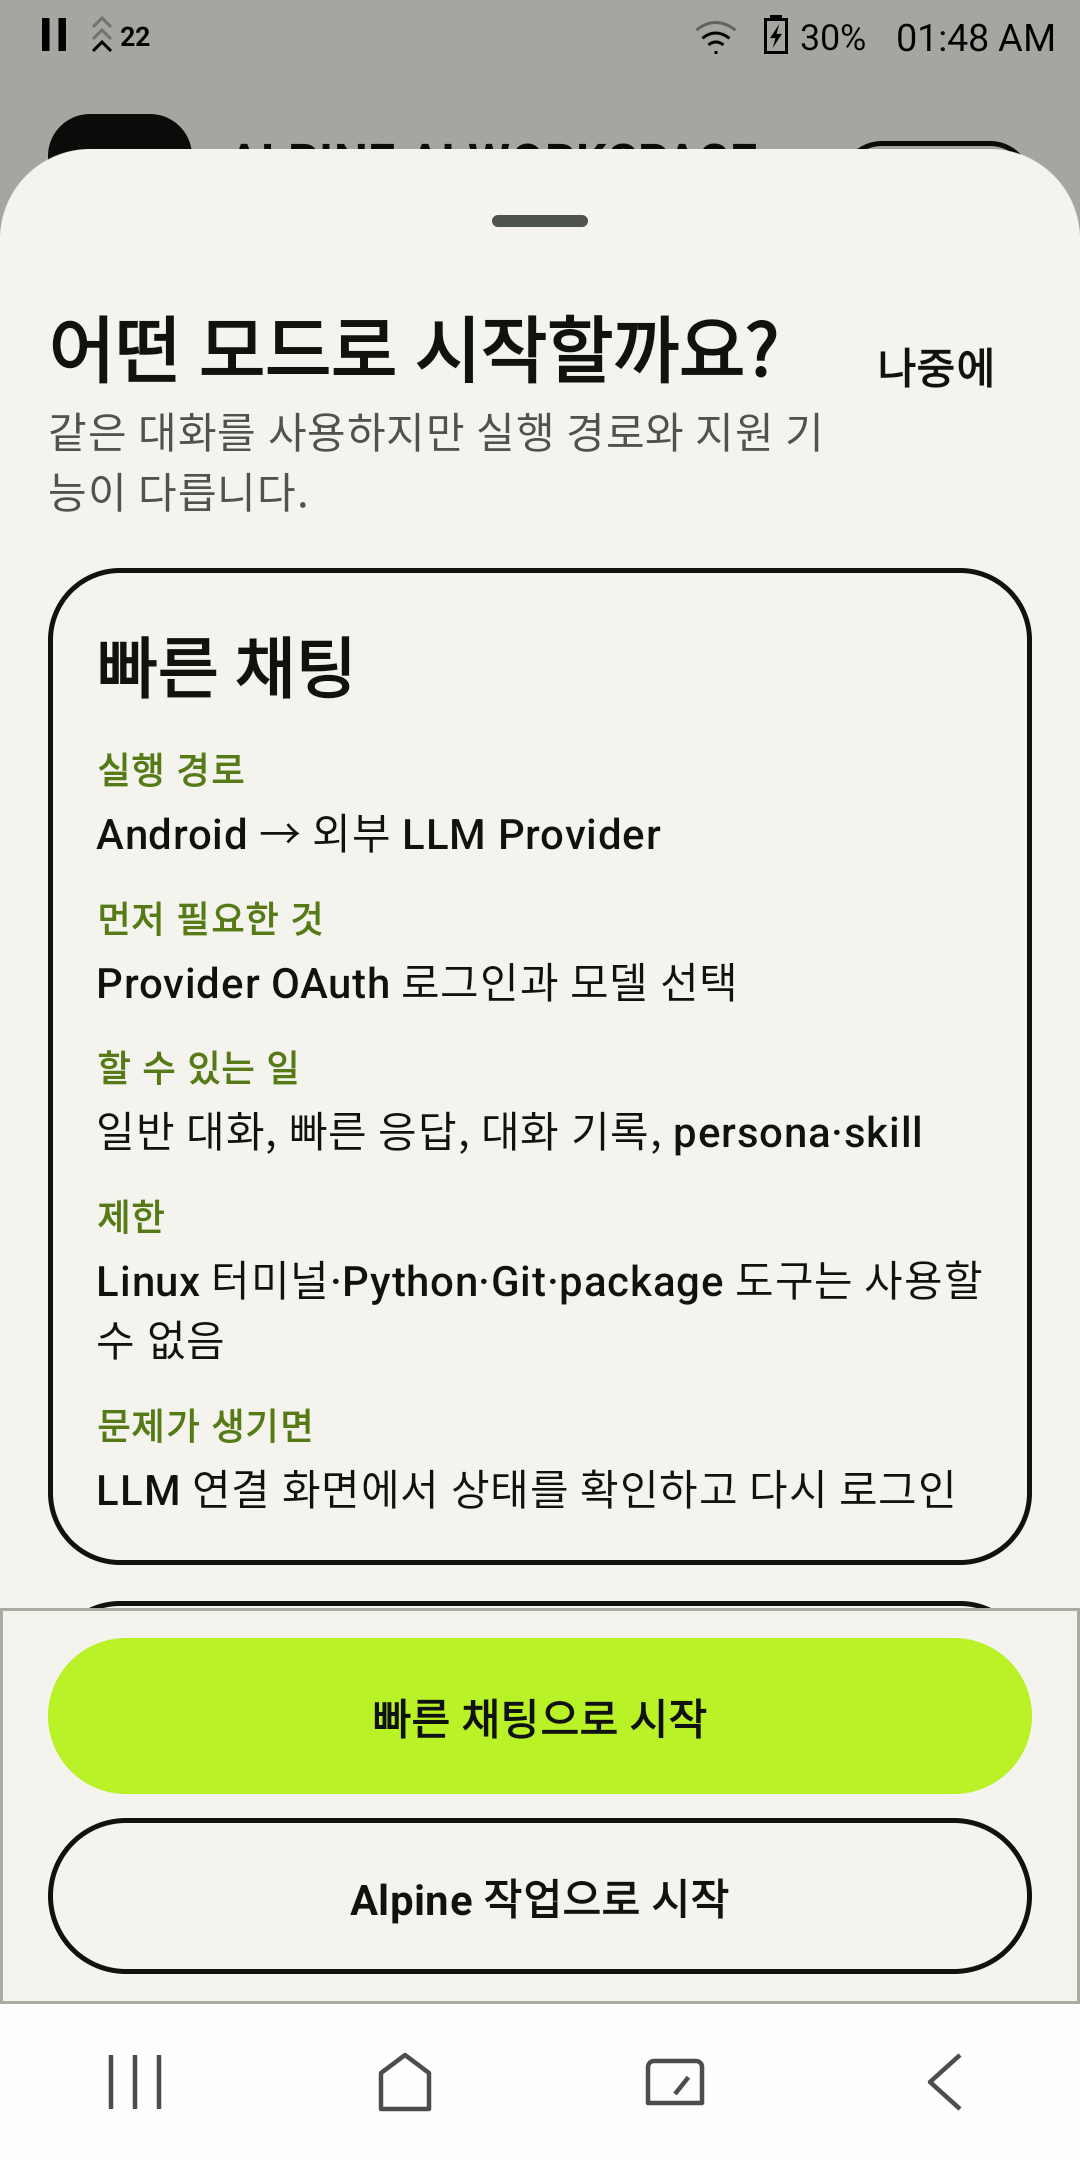
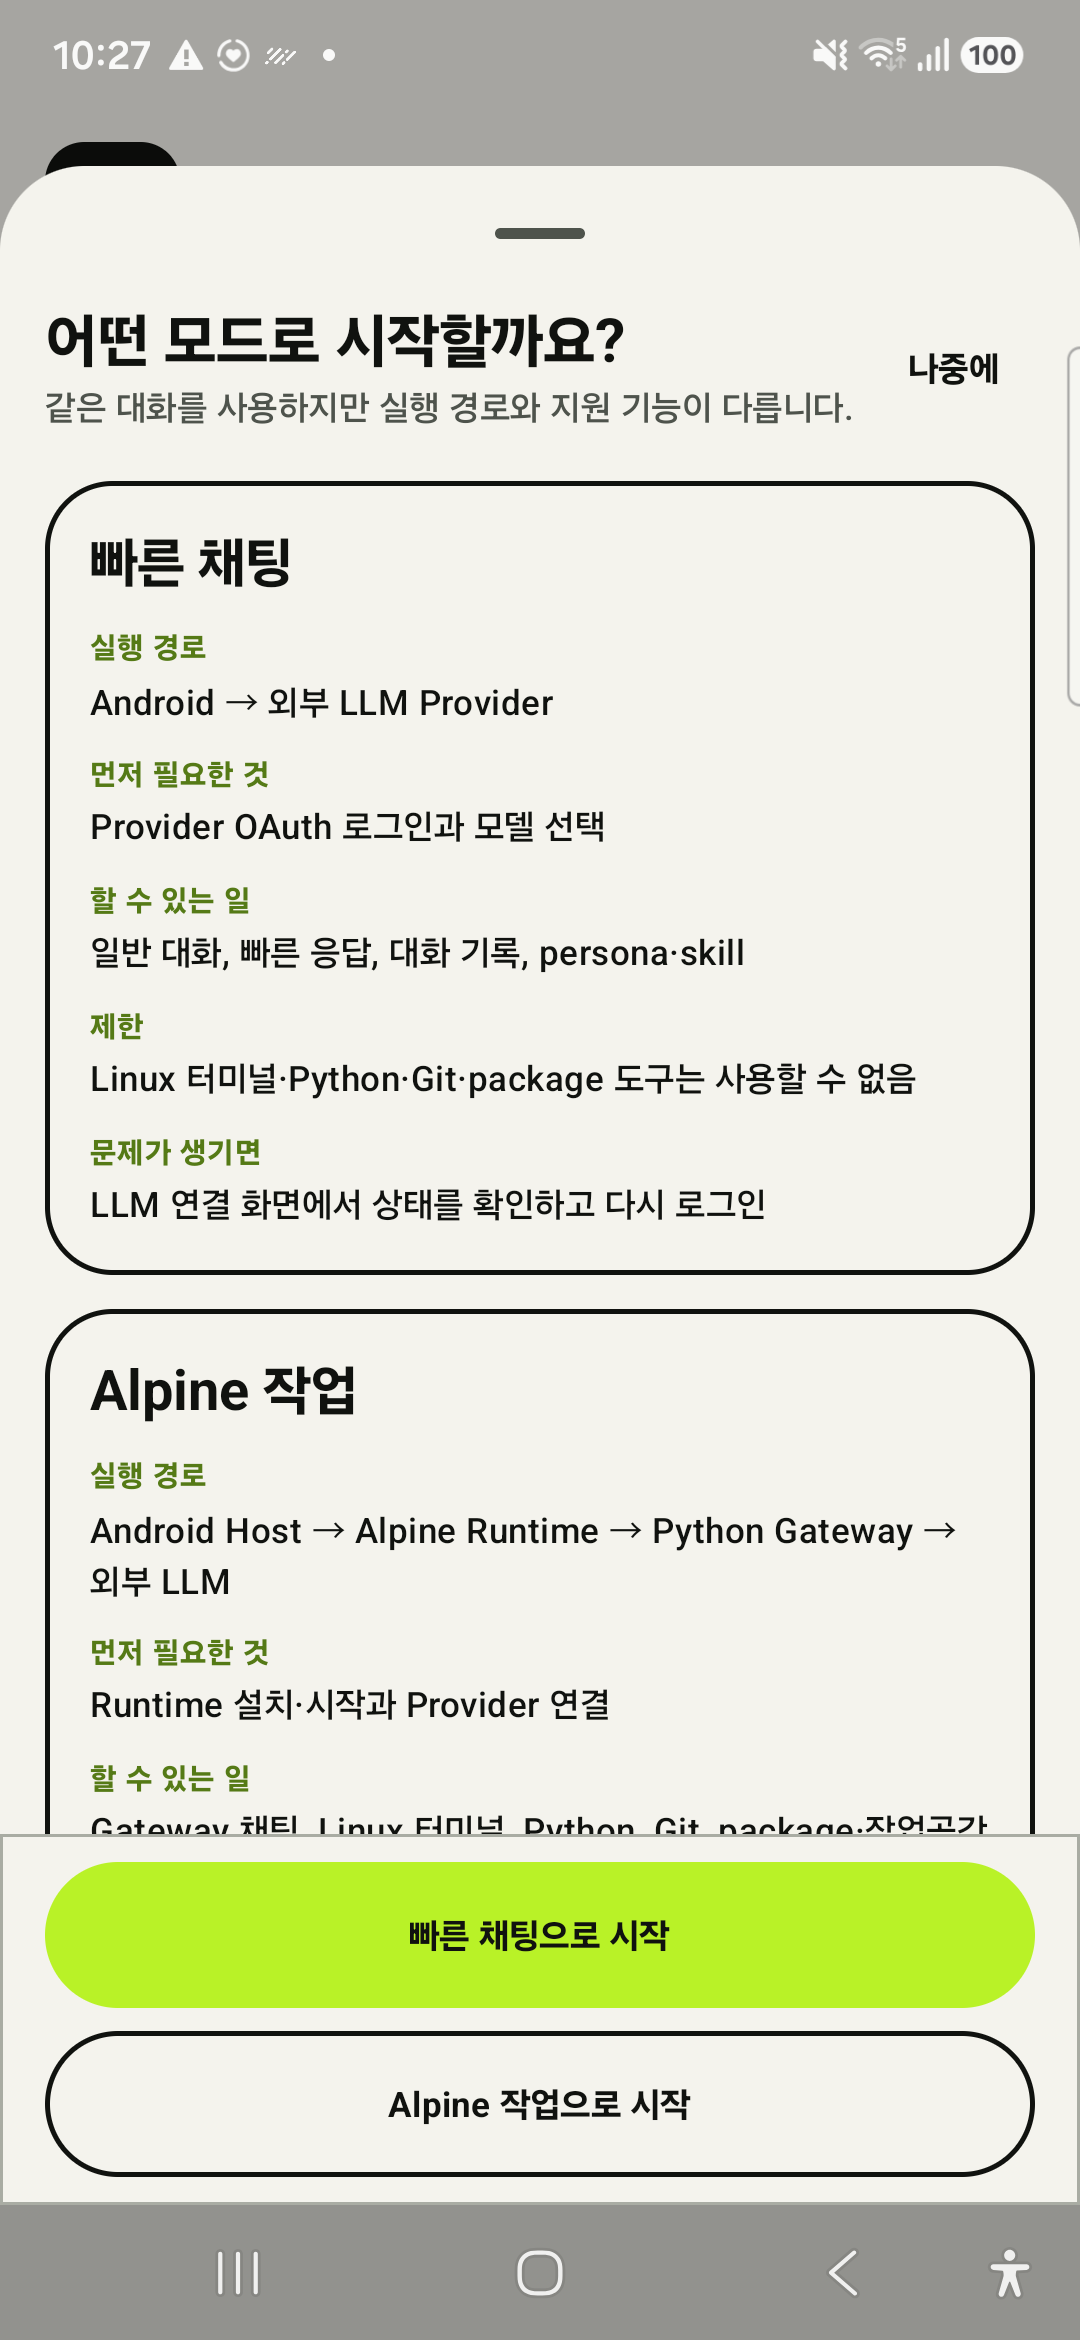
docs: refresh Samsung mode guide screenshot

diff --git a/docs/ui-design-coverage-and-proposal.md b/docs/ui-design-coverage-and-proposal.md
@@ -1,6 +1,6 @@
 # UI 디자인 적용 범위와 검증 기준
 
-갱신 일시: `2026-08-16 10:08 KST`
+갱신 일시: `2026-08-16 10:29 KST`
 
 ## 목적
 
@@ -44,8 +44,8 @@
 | 구분 | 개수 | 해상도 | 용도 |
 |---|---:|---|---|
 | README 대표 화면 | 3 | 원본 비율 유지 | 모드 안내, 빠른 채팅, Runtime·Linux terminal |
-| Samsung 원본 검증 캡처 | 10 | `1080 × 2340` | 기능·회귀 증거 archive |
-| PD20 원본 검증 캡처 | 5 | `1080 × 2160` | compact 화면·상태 증거 archive |
+| Samsung 원본 검증 캡처 | 11 | `1080 × 2340` | 기능·회귀 증거 archive |
+| PD20 원본 검증 캡처 | 4 | `1080 × 2160` | compact 화면·상태 증거 archive |
 
 원본 15개는 `docs/assets/screenshots/`에 유지한다. README 대표 화면은 `width="260"`만 지정해 원본 세로 비율을 보존한다. `scripts/verify-ui-design-contract.py`는 전체 asset 수·해상도·PNG chunk와 README 대표 3개의 exact allowlist·중복·경로를 각각 검사한다.
 
